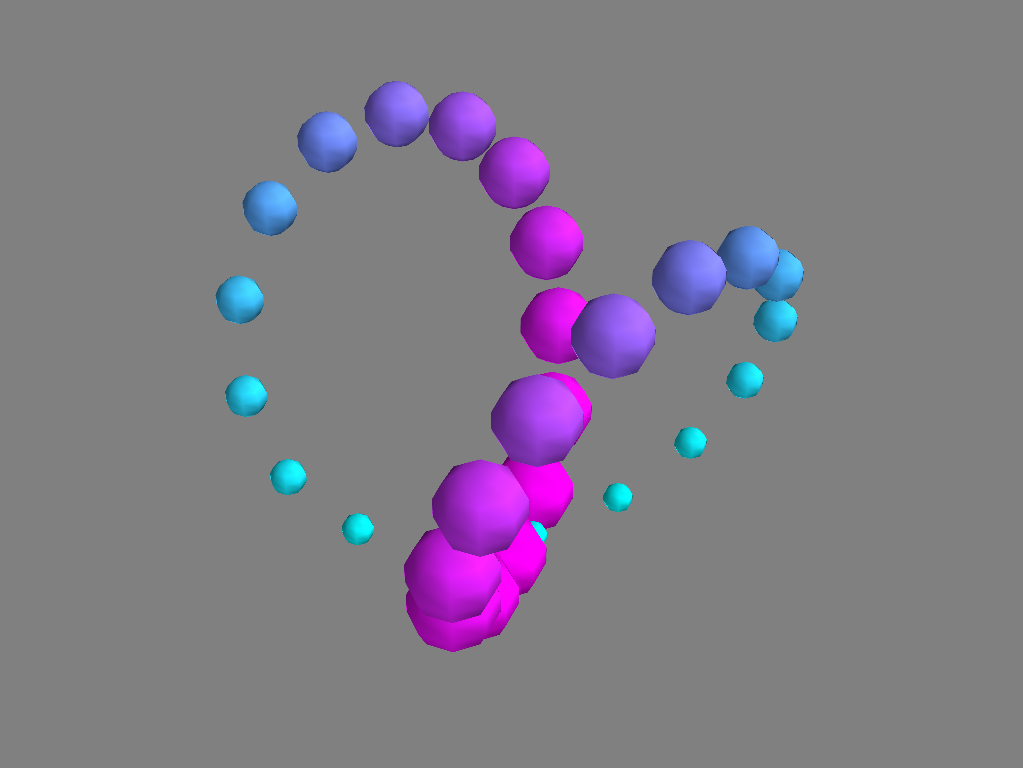
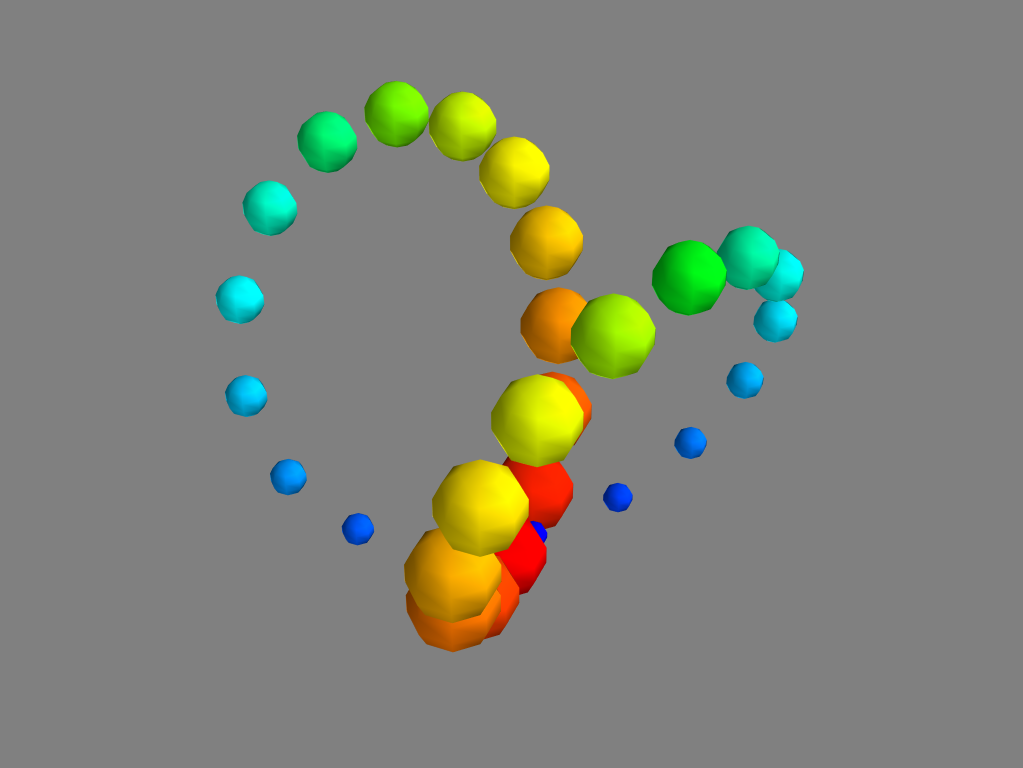
Fixed points3d fig, added table of mlab functions

diff --git a/Python/matplotlib/matplotlib.tex b/Python/matplotlib/matplotlib.tex
@@ -409,12 +409,8 @@ $(-\pi,\pi)$. Title each of them accordingly. Title the entire figure
 
 \section*{mayavi}
 
-Matplotlib is the preferred library for 2D plotting. We will now
-consider Mayavi for 3D plotting. It is a general scientific data
-visualizer that seeks to provide interactive visualization of 3D data.
-It provides easy integration with Python scientific libraries and
-maintains a rich user interface that allows interaction with all data
-and objects.
+Matplotlib is designed primarily for 2D plotting. It is also capable of basic 3D plots. However, even though we can create 3D plots in matplotlib, it is better to create 3D plots using a library that is designed to do so. Mayavi is primarily designed for 3D plotting, so it will be our preferred library for this purpose. Mayavi also has the benefits of easy integration with Python scientific libraries and a user interface that allows interaction with all data and objects.
+ 
 
 We encourage you to visit the formal documentation at
 \url{docs.enthought.com/mayavi/mayavi/} for more information. 
@@ -424,20 +420,30 @@ Within mayavi, we will be using the \li{mlab} API which is imported like so:
 from mayavi import mlab
 \end{lstlisting}
 
-\li{mlab} has many plotting functions including
+\li{mlab} has many plotting functions, summarized in Table \ref{fig:fancymesh}.
 
-\begin{itemize}
-\item barchart
-\item contour3d
-\item flow
-\item imshow
-\item mesh
-\item molecule
-\item plot3d
-\item points3d
-\item quiver 3d
-\item surf
-\end{itemize}
+\begin{table}
+\begin{center}
+\begin{tabular}
+{|c|l|}
+\hline
+Function & Description \\
+\hline
+\li{barchart} & Produces 3D histogram-like plots\\
+\li{contour3d} & Plots level surfaces of functions of three variables\\
+\li{flow} & Creates a trajectory of particles following the flow of a vector field\\
+\li{imshow} & Use a colormap to view a 2D array as an image\\
+\li{mesh} & Plot a surface using \li{(x,y,z)} coordinates supplied as three 2D arrays\\
+\li{plot3d} & Draws lines between points\\
+\li{points3d} & Plots glyphs (like points) at the coordinates supplied\\
+\li{quiver3d} & Generate 3D vector fields\\
+\li{surf} & Plot a surface with a 2D array as elevation data\\
+\hline
+\end{tabular}
+\end{center}
+\caption{Some plotting functions in \li{mlab}.} 
+\label{table:mlab_functions} 
+\end{table}
 
 All these functions can be ``tested" (which provides an example figure for the function) with the command
 \begin{lstlisting}
@@ -447,12 +453,13 @@ mlab.show()
 Note that pressing tab after typing \li{mlab.test_} will provide a 
 list of available commands, and that like matplotlib, we need to use the \li{show()} command to actually view our plot. 
 
-To test the fancy mesh, type the following command
+For example, to test the \li{fancy_mesh} function, type the following:
 \begin{lstlisting}
 mlab.test_fancy_mesh()
+mlab.show()
 \end{lstlisting}
 
-The result should resemble Figure \ref{fig:fancymesh}
+The result should resemble Figure \ref{fig:fancymesh}.
 
 \begin{figure} 
 \includegraphics[width=\textwidth]{fancymesh.png}
@@ -467,19 +474,21 @@ In this lab, we will focus our attention on introducing the \li{surf}, \li{mesh}
 
 \subsection*{3D Plotting} Similar to matplotlib, \li{mlab} takes a set
 of data points and plots it. Instead of passing just \li{x} and \li{y}
-coordinates like we did in matplotlib, we will also send \li{z}
+coordinates as we did in matplotlib, we also send \li{z}
 coordinates to produce a 3D plot. 
 
+\begin{comment}
 \subsection*{surf}
 The \li{surf} function is great for simple structures like orthogonal grids 
 because it will create efficient data structures. 
 It is common to use 2D arrays returned by \li{np.meshgrid}. 
 
 For more complex structures, the \li{mesh} function is more appropriate. 
+\end{comment}
 
 \subsection*{mesh}
 \li{mesh} plots a surface using grid-spaced data. 
-It expects three 2D numpy arrays (i.e., a grid of $(x,y,z)$ coordinates). As with pcolormesh in matplotlib, it is important that 
+It expects three 2D numpy arrays (i.e., a grid of \li{(x,y,z)} coordinates). As with pcolormesh in matplotlib, it is important that 
 all the given arrays have the same shape. 
 
 \subsection*{plot3d}
@@ -497,6 +506,7 @@ x = np.cos(pts) * (1 + np.cos(pts*6))
 y = np.sin(pts) * (1 + np.cos(pts*6))
 z = np.sin(pts*6/11)
 mlab.plot3d(x, y, z)
+mlab.show()
 \end{lstlisting}
 This will produce Figure \ref{fig:plot3d}
 \begin{figure} 
@@ -508,9 +518,9 @@ This will produce Figure \ref{fig:plot3d}
 
 \subsection*{points3d}
 \li{points3d} is similar to \li{plot3d}, except that it plots glyphs (the three-dimensional analogue of points) at the 
-positions of the supplied data, and does not connect them as \li{plot3d} does. It takes the same arguments, three 2D numpy arrays that form a grid of $(x,y,z)$ coordinates. This time we 
-will also use a keyword argument, \li{s}, which provides an associated scalar 
-value for each point given. This modifies the size and color of the glyphs. 
+positions of the supplied data, and does not connect them as \li{plot3d} does. It takes the same arguments, three 1D numpy arrays that form a line given by a list of \li{(x,y,z)} coordinates.
+For this example, we will also use a keyword argument, \li{s}, which provides an associated scalar 
+value for each point given. This modifies the size and color of the glyphs. We also use a scale factor to adjust the size of the points so that all of them are visible.
 
 The following illustrates a simple heart - given the right perspective. 
 \begin{lstlisting}
@@ -519,8 +529,8 @@ x = np.sin(2 * pts)
 y = np.cos(pts)
 z = np.cos(2 * pts)
 s = 2+np.sin(pts)
-mlab.points3d(x, y, z, s, colormap="cool", scale_factor=.15)
-mlab.savefig("testpoints3d.png", size=(1024,768))
+mlab.points3d(x, y, z, s, scale_factor=.15)
+mlab.show()
 \end{lstlisting}
 This will produce Figure \ref{fig:points3d}
 
@@ -587,7 +597,7 @@ do the following.
 \begin{itemize}
 \item Reshape the data to be 3601x3601.
 \item Cast the data type as \li{float32}. 
-\item Slice the data to take the first 1000 rows and columns 900-1900.
+\item Slice the data, taking the first 1000 rows and columns 900-1900.
 \item There is some missing data, so set the minimum of your data equal to the minimum of the the positive data points. 
 \item Preset the figure using the following commands: \li{mlab.figure(size=(400,320)}, \li{bgcolor = (.16, .28, .46))}
 \item Now plot with \li{mlab.surf}, using the colormap \li{gist_earth}, with a \li{warp_scale=.2}, \li{vmin=1200}, and \li{vmax=1610}.
